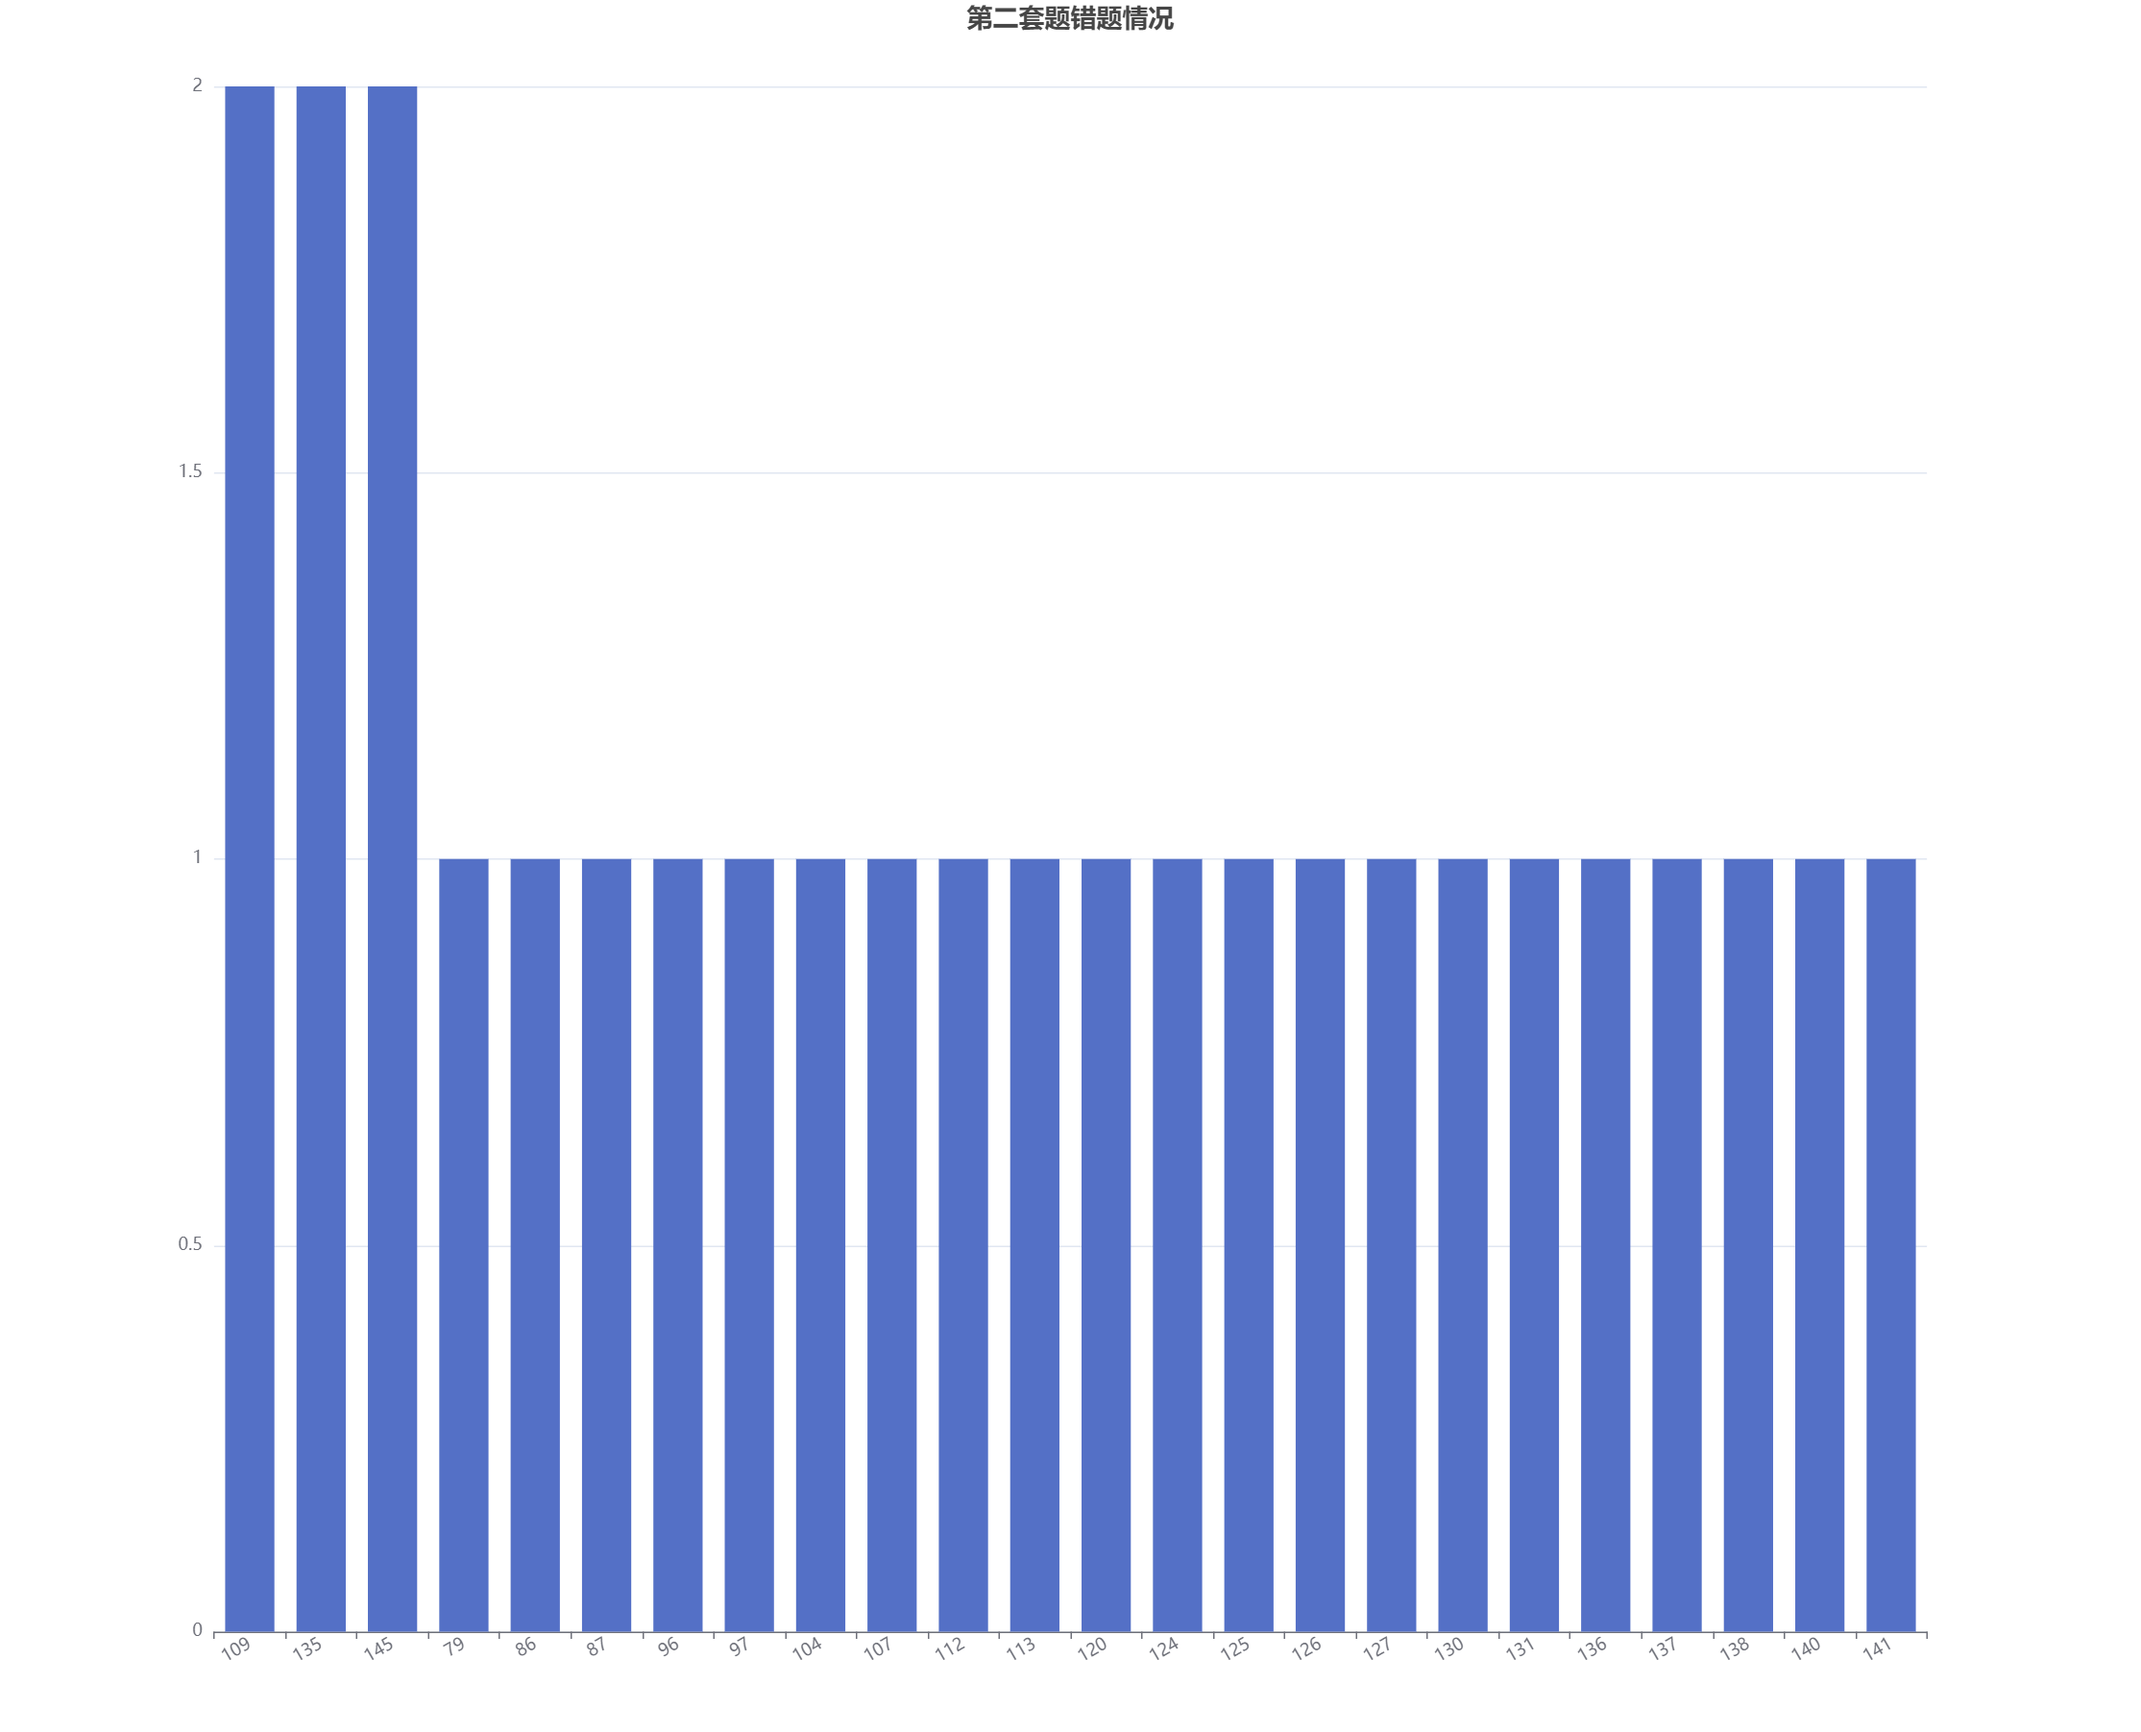
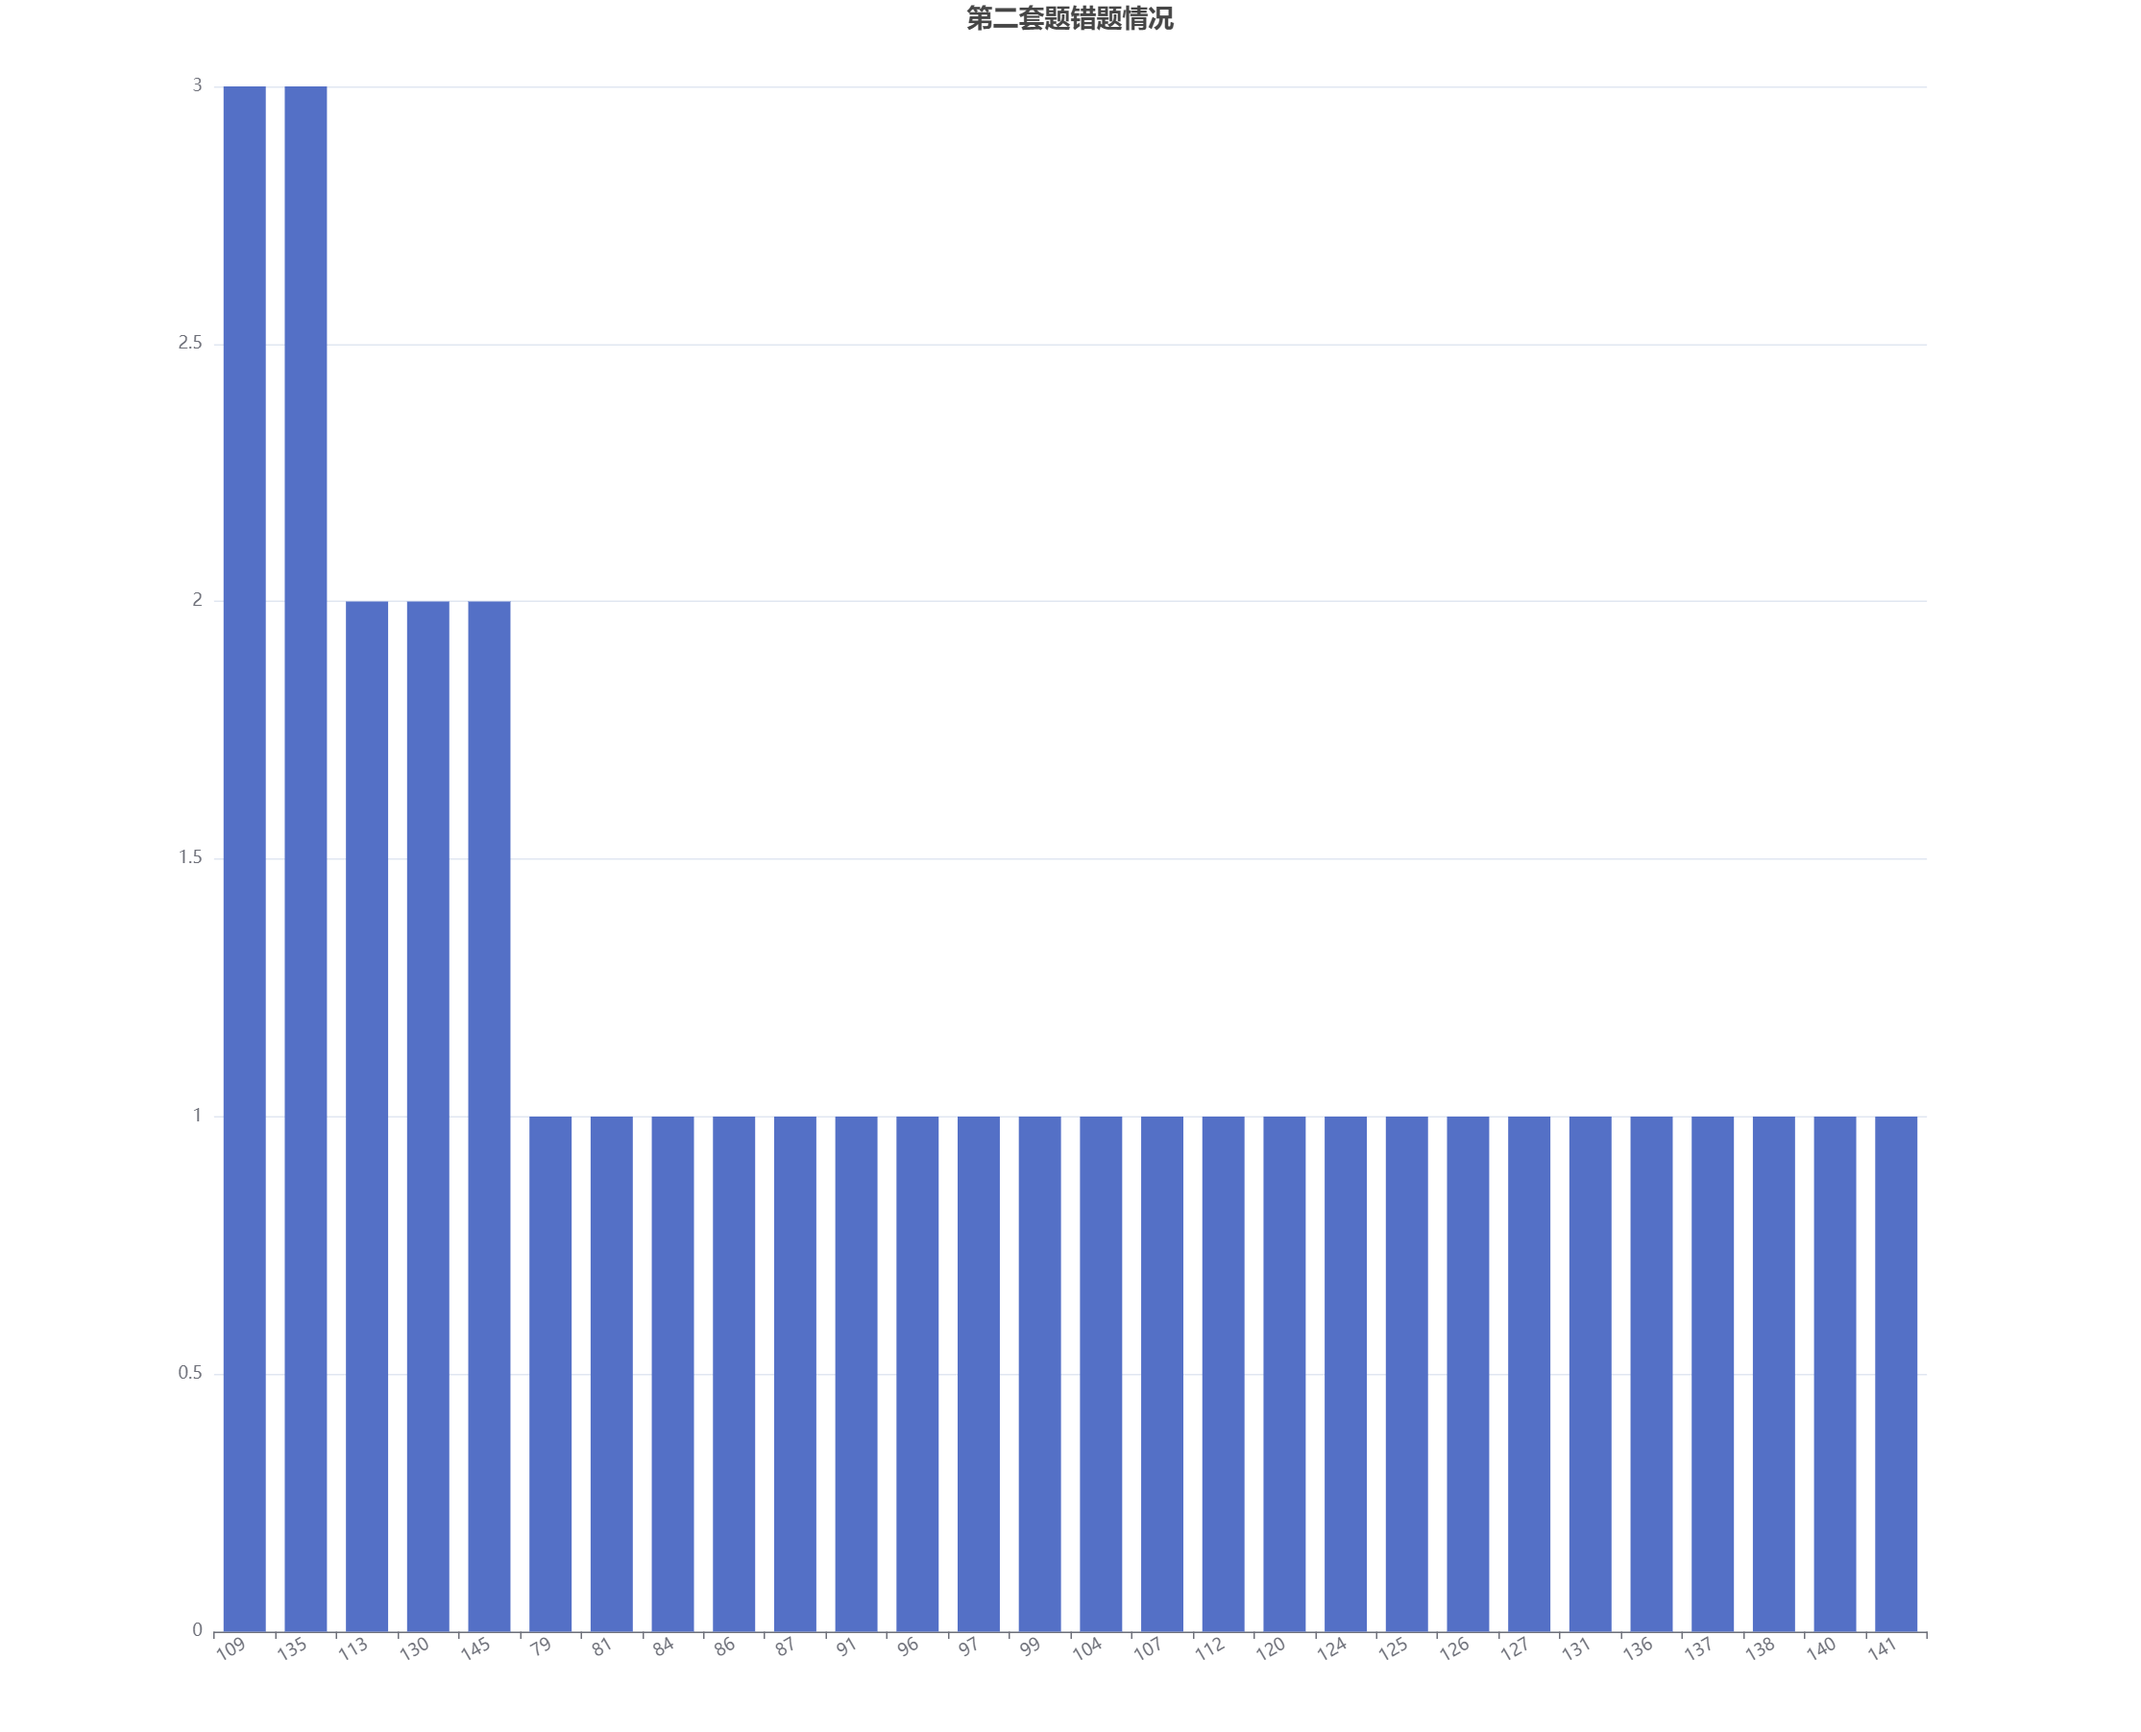
[update] answer test2

Changed region(s): [[0.1238, 0.031, 0.8977, 0.9623]]

diff --git a/src/testReview.js b/src/testReview.js
@@ -57,23 +57,27 @@ option = {
       dimensions: ["number", "frequent"],
       source: [
         ["79", 1],
+        ["81", 1],
+        ["84", 1],
         ["86", 1],
         ["87", 1],
+        ["91", 1],
         ["96", 1],
         ["97", 1],
+        ["99", 1],
         ["104", 1],
         ["107", 1],
-        ["109", 2],
+        ["109", 3],
         ["112", 1],
-        ["113", 1],
+        ["113", 2],
         ["120", 1],
         ["124", 1],
         ["125", 1],
         ["126", 1],
         ["127", 1],
-        ["130", 1],
+        ["130", 2],
         ["131", 1],
-        ["135", 2],
+        ["135", 3],
         ["136", 1],
         ["137", 1],
         ["138", 1],

diff --git a/第一套/README.md b/第一套/README.md
@@ -1141,11 +1141,11 @@ connection.
 
     </details>
 
-76. As a part of building large applications in the AWS Cloud, the Solutions Architect is required to implement the perimeter security protection. Applications running on AWS have the following endpoints:Application Load Balancer Amazon API Gateway regional endpoint Elastic IP address-based EC2 instances. Amazon S3 hosted websites. Classic Load Balancer The Solutions Architect must design a solution to protect all of the listed web front ends and provide the following security capabilities:DDoS protection SQL injection protection IP address whitelist/blacklist HTTP flood protection Bad bot scraper protection How should the Solutions Architect design the solution?
-    - [ ] A. Deploy AWS WAF and AWS Shield Advanced on all web endpoints. Add AWS WAF rules to enforce the company's requirements.
+76. As a part of building large applications in the AWS Cloud, the Solutions Architect is required to implement the perimeter security protection. Applications running on AWS have the following endpoints: -Application Load Balancer. -Amazon API Gateway regional endpoint. -Elastic IP address-based EC2 instances. -Amazon S3 hosted websites. -Classic Load Balancer. The Solutions Architect must design a solution to protect all of the listed web front ends and provide the following security capabilities: -DDoS protection. -SQL injection protection. -IP address whitelist/blacklist. -HTTP flood protection. -Bad bot scraper protection. How should the Solutions Architect design the solution?
+    - [ ] A. Deploy AWS WAF and AWS Shield Advanced on all web endpoints. Add AWS WAF rules to enforce the companyג€™s requirements.
     - [ ] B. Deploy Amazon CloudFront in front of all the endpoints. The CloudFront distribution provides perimeter protection. Add AWS Lambda-based automation to provide additional security.
-    - [ ] C. Deploy Amazon CloudFront in front of all the endpoints. Deploy AWS WAF and AWS Shield Advanced. Add AWS WAF rules to enforce the company's requirements. Use AWS Lambda to automate and enhance the security posture.
-    - [ ] D. Secure the endpoints by using network ACLs and security groups and adding rules to enforce the company's requirements. Use AWS Lambda to automatically update the rules.
+    - [ ] C. Deploy Amazon CloudFront in front of all the endpoints. Deploy AWS WAF and AWS Shield Advanced. Add AWS WAF rules to enforce the companyג€™s requirements. Use AWS Lambda to automate and enhance the security posture.
+    - [ ] D. Secure the endpoints by using network ACLs and security groups and adding rules to enforce the companyג€™s requirements. Use AWS Lambda to automatically update the rules.
 
     <details>
        <summary>Answer</summary>
@@ -1165,12 +1165,12 @@ connection.
 
        - [x] A. 正确
        - [ ] B. 太昂贵了，非最佳体验
-       - [ ] C. 对等连接无法流向NAT、
+       - [ ] C. 对等连接无法流向NAT
        - [ ] D. PrivcateLink不走外网
 
     </details>
 
-78. A company runs an e-commerce platform with front-end and e-commerce tiers. Both tiers run on LAMP stacks with the front-end instances running behind a load balancing appliance that has a virtual offering on AWS. Currently, the Operations team uses SSH to log in to the instances to maintain patches and address other concerns. The platform has recently been the target of multiple attacks, including A DDoS attack. An SQL injection attack Several successful dictionary attacks on SSH accounts on the web servers. The company wants to improve the security of the e-commerce platform by migrating to AWS. The company's Solutions Architects have decided to use the following approach:Code review the existing application and fix any SQL injection issues. Migrate the web application to AWS and leverage the latest AWS Linux AMI to address initial security patching high availability and minimizing risk?
+78. A company runs an e-commerce platform with front-end and e-commerce tiers. Both tiers run on LAMP stacks with the front-end instances running behind a load balancing appliance that has a virtual offering on AWS. Currently, the Operations team uses SSH to log in to the instances to maintain patches and address other concerns. The platform has recently been the target of multiple attacks, including a DDoS attack. An SQL injection attack Several successful dictionary attacks on SSH accounts on the web servers. The company wants to improve the security of the e-commerce platform by migrating to AWS. The company's Solutions Architects have decided to use the following approach:Code review the existing application and fix any SQL injection issues. Migrate the web application to AWS and leverage the latest AWS Linux AMI to address initial security patching high availability and minimizing risk?
     - [ ] A. Enable SSH access to the Amazon EC2 instances using a security group that limits access to specific IPs. Migrate on-premises MySQL to Amazon RDS Multi-AZ. Install the third-party load balancer from the AWS Marketplace and migrate the existing rules to the load balancer's AWS instances. Enable AWS Shield Standard for DDoS protection.
     - [ ] B. Disable SSH access to the Amazon EC2 instances. Migrate on-premises MySQL to Amazon RDS Multi-AZ. Leverage an Elastic Load Balancer to spread the load and enable AWS Shield Advanced for protection. Add an Amazon CloudFront distribution in front of the website. Enable AWS WAF on the distribution to manage the rules.
     - [ ] C. Enable SSH access to the Amazon EC2 instances through a bastion host secured by limiting access to specific IP addresses. Migrate on-premises MySQL to a self-managed EC2 instance. Leverage an AWS Elastic Load Balancer to spread the load and enable AWS Shield Standard for DDoS protection. Add an Amazon CloudFront distribution in front of the website.
@@ -1441,7 +1441,7 @@ connection.
     <details>
        <summary>Answer</summary>
 
-       使用AWS Organization是最佳实践，答案C
+       使用AWS Organization是最佳实践，答案B
 
     </details>
 

diff --git a/第二套/README.md b/第二套/README.md
@@ -507,9 +507,9 @@
     <details>
        <summary>Answer</summary>
 
-       - [ ] A. JavaScript不能直接触发Lambda
+       - [x] A. 最便宜
        - [ ] B. Cognito对共享的支持不怎么样
-       - [ ] C. 正确
+       - [ ] C. 这个很贵了
        - [ ] D. AppStream不是用来干Saas的
 
     </details>
@@ -571,7 +571,7 @@
     <details>
        <summary>Answer</summary>
 
-       这题选BE，但是不知道为啥
+       与经典负载平衡器或网络负载平衡器不同，应用负载平衡器不能有传输层（第四层）TCP或SSL/TLS监听器。它只支持HTTP和HTTPS监听器。此外，它不能使用后端认证来验证负载平衡器和后端实例之间的 HTTPS 连接。
 
     </details>
 

diff --git a/README.md b/README.md
@@ -30,6 +30,11 @@
 - 161, 162, 163, 175, 177, 184, 211, 213, 214, 216, 219
 - 正确率85.33%
 
+## 2021年8月12日测试错题
+
+- 81, 84, 91, 99, 109, 113, 130, 135
+- 正确率89.33%
+
 ## 图表
 
 ![01](./img/testReview1.png)
